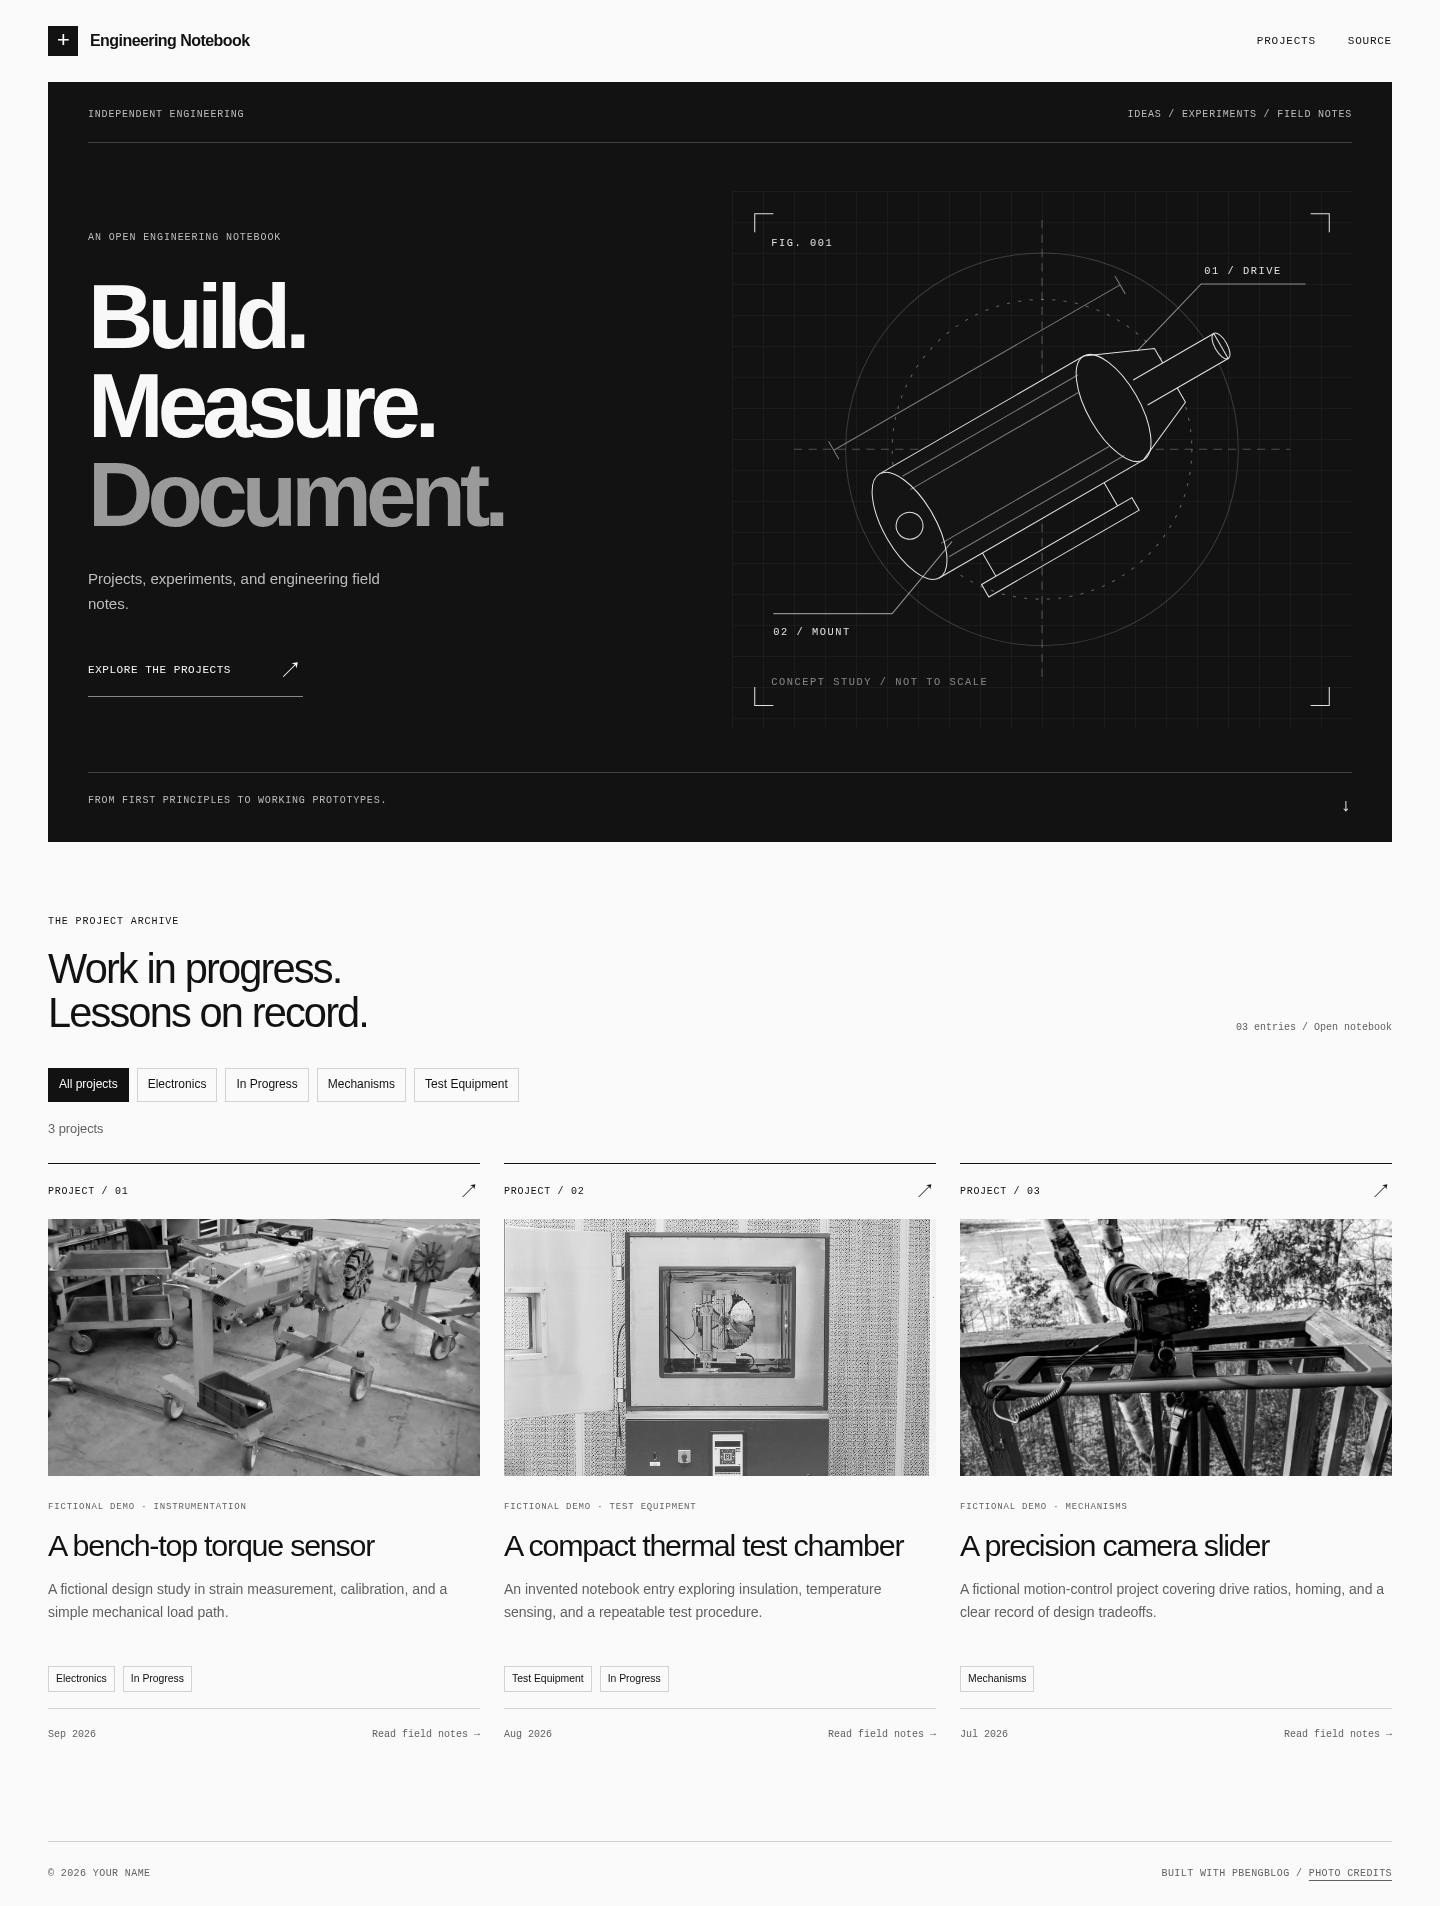
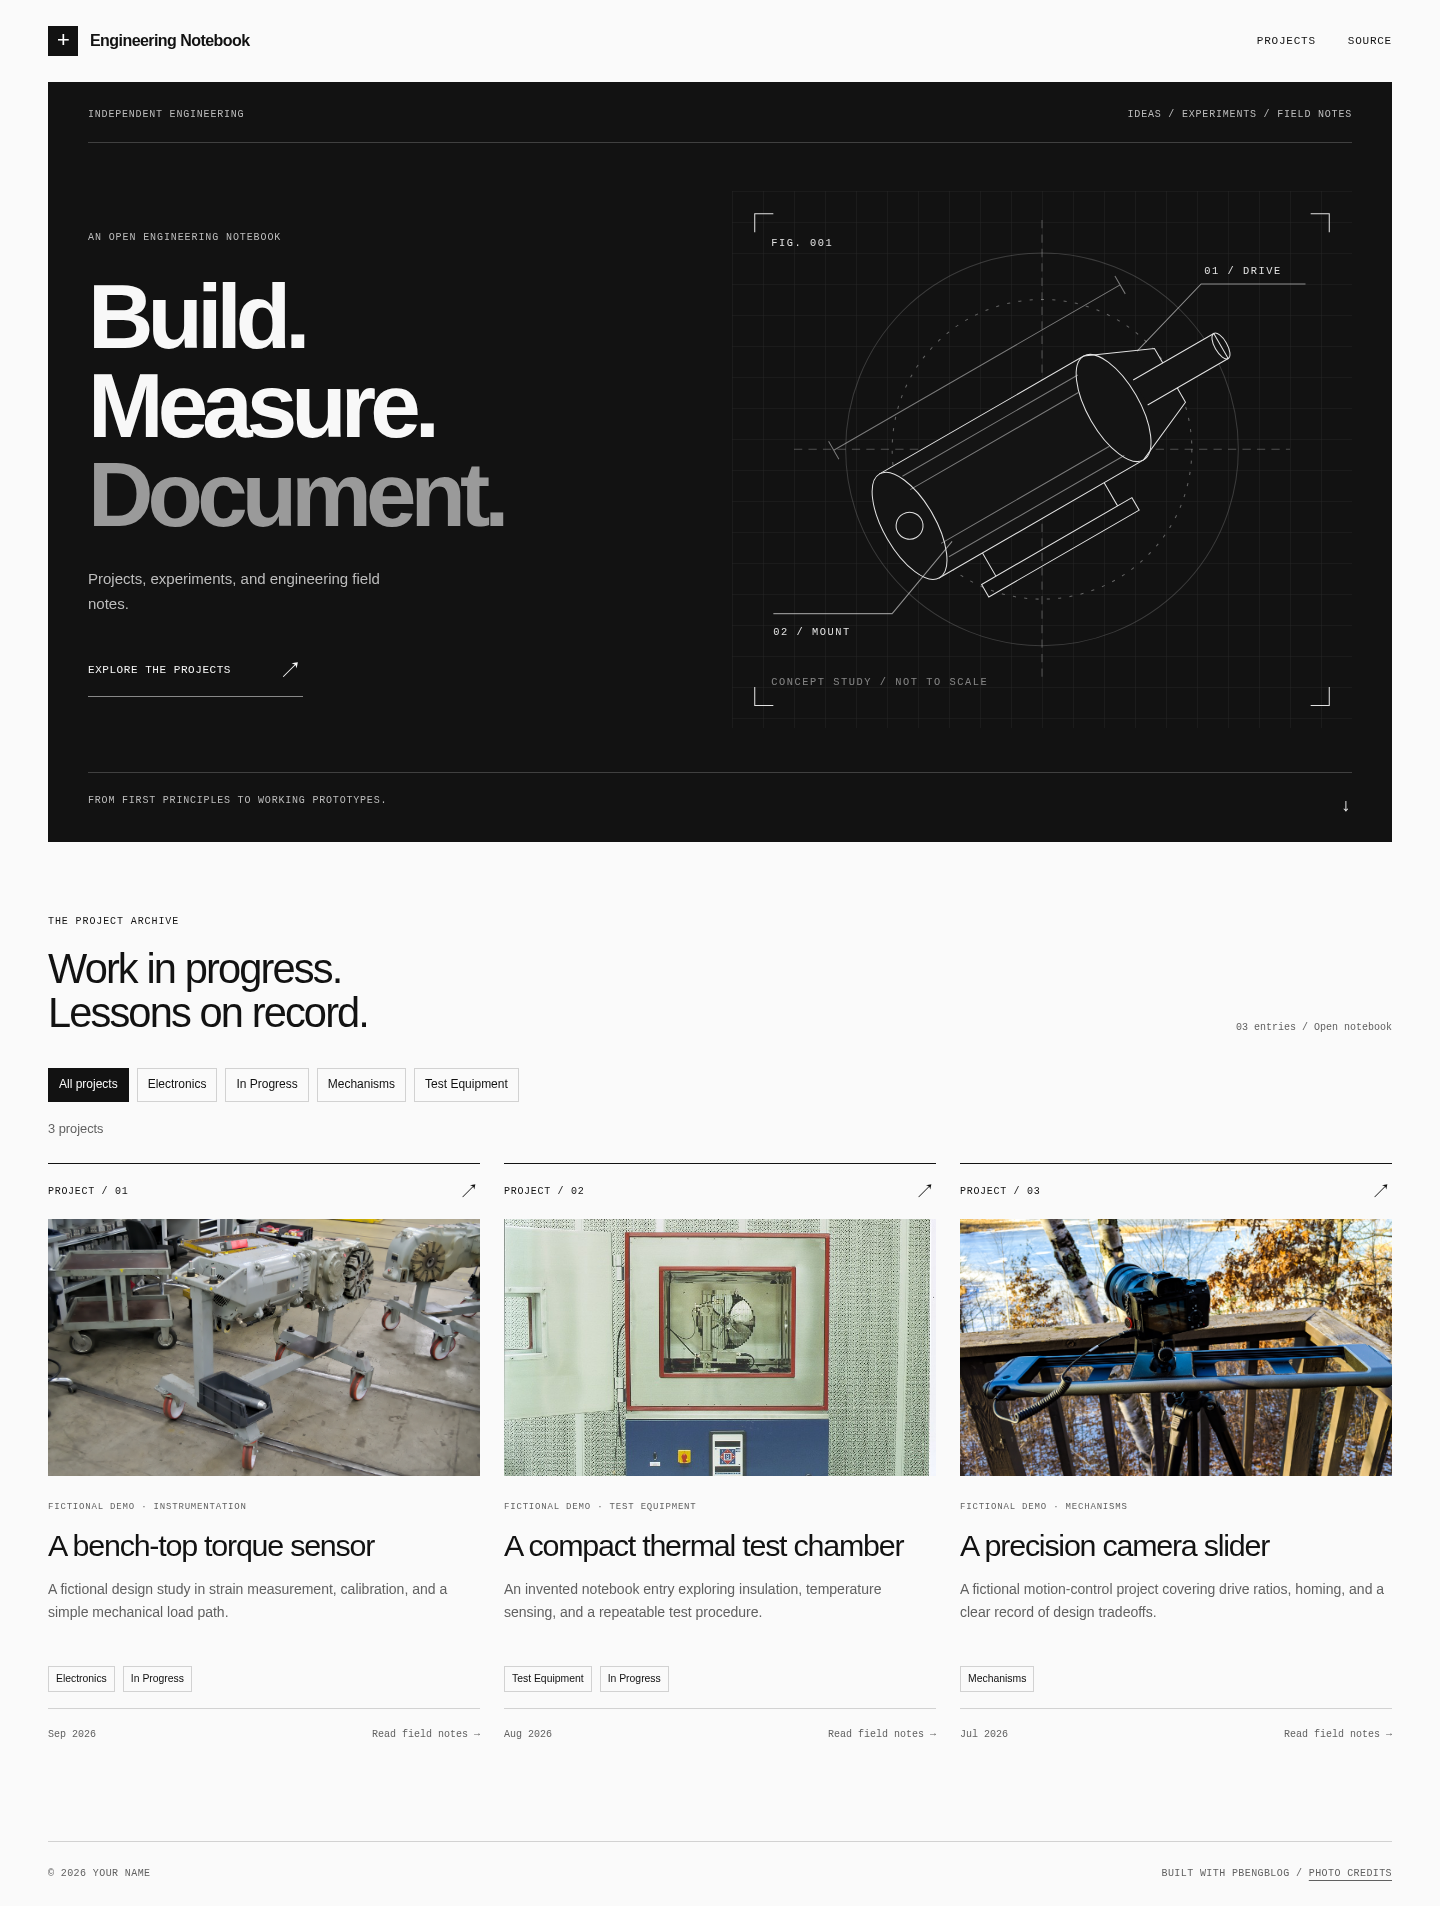
Keep example photos in color and document publishing and offsite backups

diff --git a/apps/web/app/monochrome.css b/apps/web/app/monochrome.css
@@ -214,7 +214,6 @@ header.site-header {
   object-fit: cover;
   border-radius: 0;
   margin: 0;
-  filter: grayscale(1);
   transition: transform 0.3s;
 }
 .card:hover img {

diff --git a/scripts/deploy.py b/scripts/deploy.py
@@ -1,0 +1,55 @@
+#!/usr/bin/env python3
+"""Deploy only integrity-checked published static assets to the configured project."""
+import argparse, hashlib, json, time, urllib.request, urllib.error
+from pathlib import Path
+from concurrent.futures import ThreadPoolExecutor
+root=Path(__file__).resolve().parents[1]
+parser=argparse.ArgumentParser()
+parser.add_argument('release')
+parser.add_argument('--production',action='store_true')
+parser.add_argument('--check',action='store_true',help='Validate the release without accessing Vercel')
+parser.add_argument('--config',default=str(root/'.local/deploy-config.json'))
+args=parser.parse_args()
+release=Path(args.release).resolve();manifest=json.loads((release/'manifest.json').read_text())
+if manifest.get('preview') is not False or not manifest.get('articles'):raise SystemExit('Only nonempty published releases may be deployed.')
+site=release/'site';expected=json.loads((release/'site-checksums.json').read_text())
+actual={p.relative_to(site).as_posix():hashlib.sha256(p.read_bytes()).hexdigest() for p in site.rglob('*') if p.is_file()}
+if actual!=expected or 'index.html' not in actual:raise SystemExit('Static release integrity check failed.')
+if args.check:
+ print(f'Validated {len(actual)} static files for {manifest["articles"]} published articles.');raise SystemExit(0)
+config=json.loads(Path(args.config).read_text());token=Path(config['tokenFile']).read_text().strip();team=config.get('teamId')
+def call(path,body=None,raw=False,headers=None):
+ url='https://api.vercel.com'+path+('?teamId='+team if team else '')
+ data=body if raw else (None if body is None else json.dumps(body).encode())
+ req=urllib.request.Request(url,data=data,headers={'Authorization':'Bearer '+token,'Content-Type':'application/octet-stream' if raw else 'application/json',**(headers or {})})
+ try:
+  with urllib.request.urlopen(req,timeout=90) as response:
+   result=response.read();return json.loads(result) if result else {}
+ except urllib.error.HTTPError as e:raise RuntimeError(f'Vercel HTTP {e.code}: {e.read().decode()[:500]}') from None
+project=call('/v9/projects/'+config['projectId'])
+if project['name']!=config['projectName']:raise SystemExit('Project name/ID mismatch')
+def upload(name):
+ data=(site/name).read_bytes();digest=hashlib.sha1(data).hexdigest()
+ for attempt in range(3):
+  try:call('/v2/files',data,True,{'x-vercel-digest':digest,'x-vercel-size':str(len(data))});break
+  except RuntimeError:
+   if attempt==2:raise
+   time.sleep(2**attempt)
+ return {'file':name,'sha':digest,'size':len(data)}
+with ThreadPoolExecutor(max_workers=4) as pool:files=list(pool.map(upload,sorted(actual)))
+files.append({'file':'vercel.json','data':json.dumps({'version':2,'cleanUrls':True,'trailingSlash':False,'git':{'deploymentEnabled':False},'headers':[{'source':'/(.*)','headers':[{'key':'X-Content-Type-Options','value':'nosniff'}]}]})})
+body={'name':config['projectName'],'project':config['projectId'],'files':files,'projectSettings':{'framework':None,'buildCommand':'','installCommand':'','outputDirectory':None},'meta':{'pbengblogRelease':manifest['id']}}
+if args.production:body['target']='production'
+result=call('/v13/deployments',body)
+record={k:result.get(k) for k in ['id','url','readyState','projectId']}
+record.update(release=manifest['id'],production=args.production,previousProduction=project.get('targets',{}).get('production',{}).get('id'))
+log=root/'.local/deployments';log.mkdir(parents=True,exist_ok=True)
+(log/(result['id']+'.json')).write_text(json.dumps(record,indent=2)+'\n')
+print('Deployment created:',record['url'],flush=True)
+for attempt in range(60):
+ status=call('/v13/deployments/'+result['id'])
+ if status.get('readyState')=='READY':
+  record['readyState']='READY';(log/('production.json' if args.production else 'preview.json')).write_text(json.dumps(record,indent=2)+'\n');print(json.dumps(record));break
+ if status.get('readyState') in ['ERROR','CANCELED']:raise SystemExit('Deployment failed: '+str(status.get('errorMessage','Check Vercel logs')))
+ time.sleep(3)
+else:raise SystemExit('Deployment still pending; check Vercel before retrying.')

diff --git a/docs/OPERATIONS.md b/docs/OPERATIONS.md
@@ -19,7 +19,7 @@ bash scripts/restore-test.sh /absolute/path/printed/by/backup
 
 Backups use PostgreSQL custom-format dumps, followed by an archive of immutable uploads. `SHA256SUMS` verifies both artifacts. The restore test creates a separate temporary database, restores in one transaction, validates all restored media hashes, reports row counts, and removes only its own temporary database/files. It does not replace the active database.
 
-Default backup location is `.local/backups`; `PB_BACKUP_DIR` overrides it. Scripts do not prune old backups. Schedule daily backups with your service manager and copy them to encrypted off-host storage. A local backup on the same machine is not disaster recovery. Credentials are deliberately excluded and must be recovered separately.
+Default backup location is `.local/backups`; `PB_BACKUP_DIR` overrides it. Scripts do not prune old backups. Schedule daily backups with your service manager. `PB_BACKUP_REMOTE=your-remote:BlogBackups bash scripts/backup-offsite.sh` copies each completed database/media backup to an existing rclone remote and verifies remote checksums. These copies are not client-side encrypted; use a private destination or an rclone crypt remote if encryption is required. A local backup on the same machine is not disaster recovery. Credentials are deliberately excluded and must be recovered separately.
 
 To recover for real, provision an empty database, restore using `pg_restore --exit-on-error --single-transaction --no-owner --no-acl`, restore the matching uploads directory, point DATABASE_URL and DATA_DIR at the restored data, run migrations, and verify the editor and static build before changing routing.
 
@@ -27,7 +27,7 @@ To recover for real, provision an empty database, restore using `pg_restore --ex
 
 `npm run dev` is for local development. `npm run build --workspace @pbengblog/editor` and `npm run start --workspace @pbengblog/editor` run the production editor on loopback port 3011. Use HTTPS or an SSH tunnel for remote access. No public host routes are installed by the template.
 
-For Vercel, the website output is `apps/web/out/`. Build a release with `npm run publish` then `npm run build:published`. A database connection is only required during export, not during the static build or at request time. Automatic Git deployment requires a separately prepared content delivery workflow; simply linking the template repository builds the generic demo.
+For Vercel, the website output is `apps/web/out/`. Build a release with `npm run publish` then `npm run build:published`. A database connection is only required during export, not during the static build or at request time. The release workflow below exports published database snapshots on your editor host and uploads only static files. Git pushes alone do not publish database content.
 
 ## Updating
 
@@ -40,3 +40,21 @@ Back up first. Update dependency versions intentionally, run type checks and tes
 ## Reusable tags
 
 Migration `003_reusable_tags.sql` adds `tags` and `post_tags`; run `npm run db:migrate` before starting the updated editor. Existing posts begin with no tags and continue to work. Tag assignment and article revision writes share one transaction. Unknown tag IDs reject the entire save. Tag names are unique ignoring case; concurrent creation reuses the existing tag. Renaming uses the previous name to reject stale writes. Revisions and published snapshots carry tag IDs and names, so renaming draft tags cannot change an exported website. Database backups include the registry and assignments.
+
+## Release to Vercel
+
+Requires Docker, Python 3, `flock`, and a Vercel project/account token. Copy `docs/deploy-config.example.json` to `.local/deploy-config.json`, set the project ID/name/team and token-file path, and keep that config and token private (mode 0600). Never commit credentials.
+
+1. In the editor, save each article and click **Publish snapshot**.
+2. From the repository root, run `bash scripts/release.sh` for a Vercel preview, or `bash scripts/release.sh --production` for the live site.
+3. Check the returned URL. Deployment records, including the previous production ID, are in `.local/deployments/`.
+
+To prepare without deployment: `bash scripts/prepare-release.sh`. Validate with `python3 scripts/deploy.py "$(cat .local/prepared-release)" --check`. Deploy that exact prepared release with the same command replacing `--check` with `--production` (or no flag for a preview). Empty sites, draft preview releases, and altered build files are rejected. Vercel previews may require account login depending on project protection settings.
+
+The release includes all published articles, never current unpublished edits. It preserves extensionless post URLs. The static deployment has no database credentials or editor routes. Keep the old Notion Git deployment disconnected after cutover so it cannot overwrite a release. Production deployment is deliberate; the editor's **Publish snapshot** button saves a snapshot but does not itself deploy.
+
+For rollback, open the Vercel project's Deployments page and promote the previous known-good deployment recorded in `.local/deployments/production.json` (or use Vercel's Instant Rollback). This restores the website without changing drafts or the database. Correct the draft and prepare a new release when ready.
+
+## Offsite restore verification
+
+Download one dated backup folder with `rclone copy REMOTE:FOLDER/DATED-BACKUP .local/restore-from-drive`, then run `bash scripts/restore-test.sh "$PWD/.local/restore-from-drive"`. The restore test uses a temporary database and does not overwrite live data. Credentials are excluded from backups and must be recovered separately. Backups currently retain every dated copy; monitor storage use.

diff --git a/README.md b/README.md
@@ -17,7 +17,7 @@ Example photos: Antti Leppänen, Cjp24, and Tony Webster. See [photo sources and
 - **Website:** A separate Next.js static export. Publishing copies only published articles and their images into an immutable release; readers never connect to your database or editor.
 - **Migration:** A one-time importer for public `nextjs-notion-starter-kit` sites. The running blog has no Notion dependency.
 
-This is an early working foundation. The editor currently requires a separate export/build step after publishing. There is no automatic production deployment, multi-user management, or public editor hosting configuration.
+This is an early working foundation. The editor currently requires a separate export/build step after publishing. The included release command prepares and deploys published snapshots to Vercel. There is no multi-user management or public editor hosting configuration.
 
 ## Start locally
 
@@ -51,7 +51,7 @@ Drafts autosave every five seconds. Saves use optimistic version checks to preve
 2. Choose **Publish snapshot** to save its published version in PostgreSQL.
 3. Run `npm run publish` to export published content and checksum-verified media to `.local/releases/`.
 4. Run `npm run build:published` to create `apps/web/out/`.
-5. Review and deploy that output to your static host, such as Vercel.
+5. Review and deploy that output to your static host. For the complete Vercel flow, configure `.local/deploy-config.json` as described in [operations](docs/OPERATIONS.md), then use `bash scripts/release.sh --production`.
 
 A normal `npm run build --workspace @pbengblog/web` builds the generic demo. It never reads private drafts. An explicit empty published snapshot builds an empty website.
 

diff --git a/docs/ARCHITECTURE.md b/docs/ARCHITECTURE.md
@@ -24,4 +24,4 @@ This initial version is a single-owner editor using HTTP Basic auth. It fails cl
 
 ## Future work
 
-Automated deployment from a publish action, durable browser draft recovery after a browser crash, richer attachment conversion, publication timestamps, redirects for intentional slug changes, and deployment-specific off-host backups are follow-up work. Five-second autosave and before-unload protection are implemented; unsaved keystrokes can still be lost if a tab crashes before saving.
+Automated deployment from a publish action, durable browser draft recovery after a browser crash, richer attachment conversion, publication timestamps, redirects for intentional slug changes, and automated retention policies are follow-up work. Static Vercel release scripts and verified rclone offsite backups are available in the operations guide. Five-second autosave and before-unload protection are implemented; unsaved keystrokes can still be lost if a tab crashes before saving.
